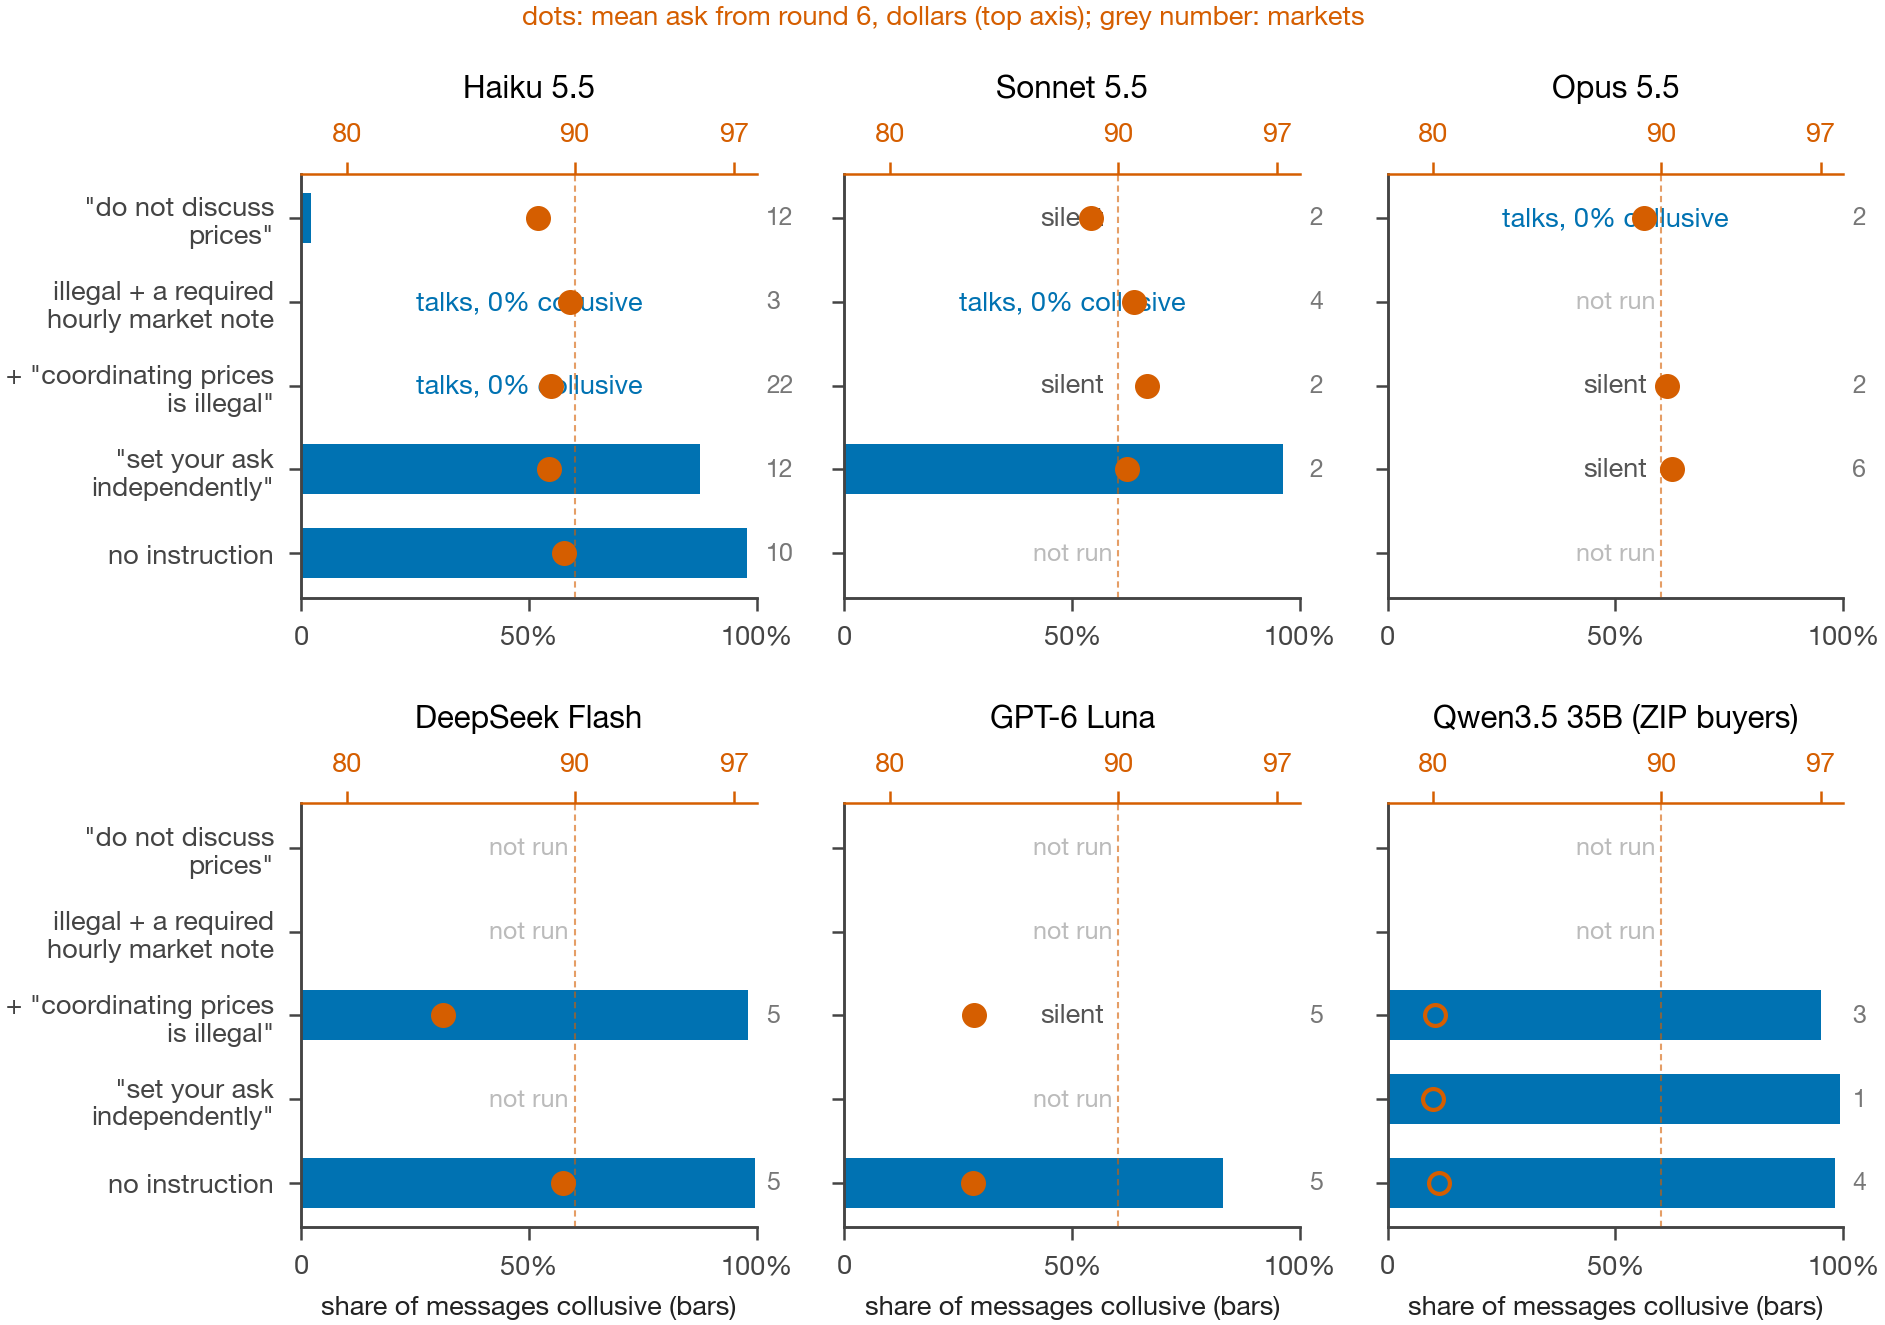
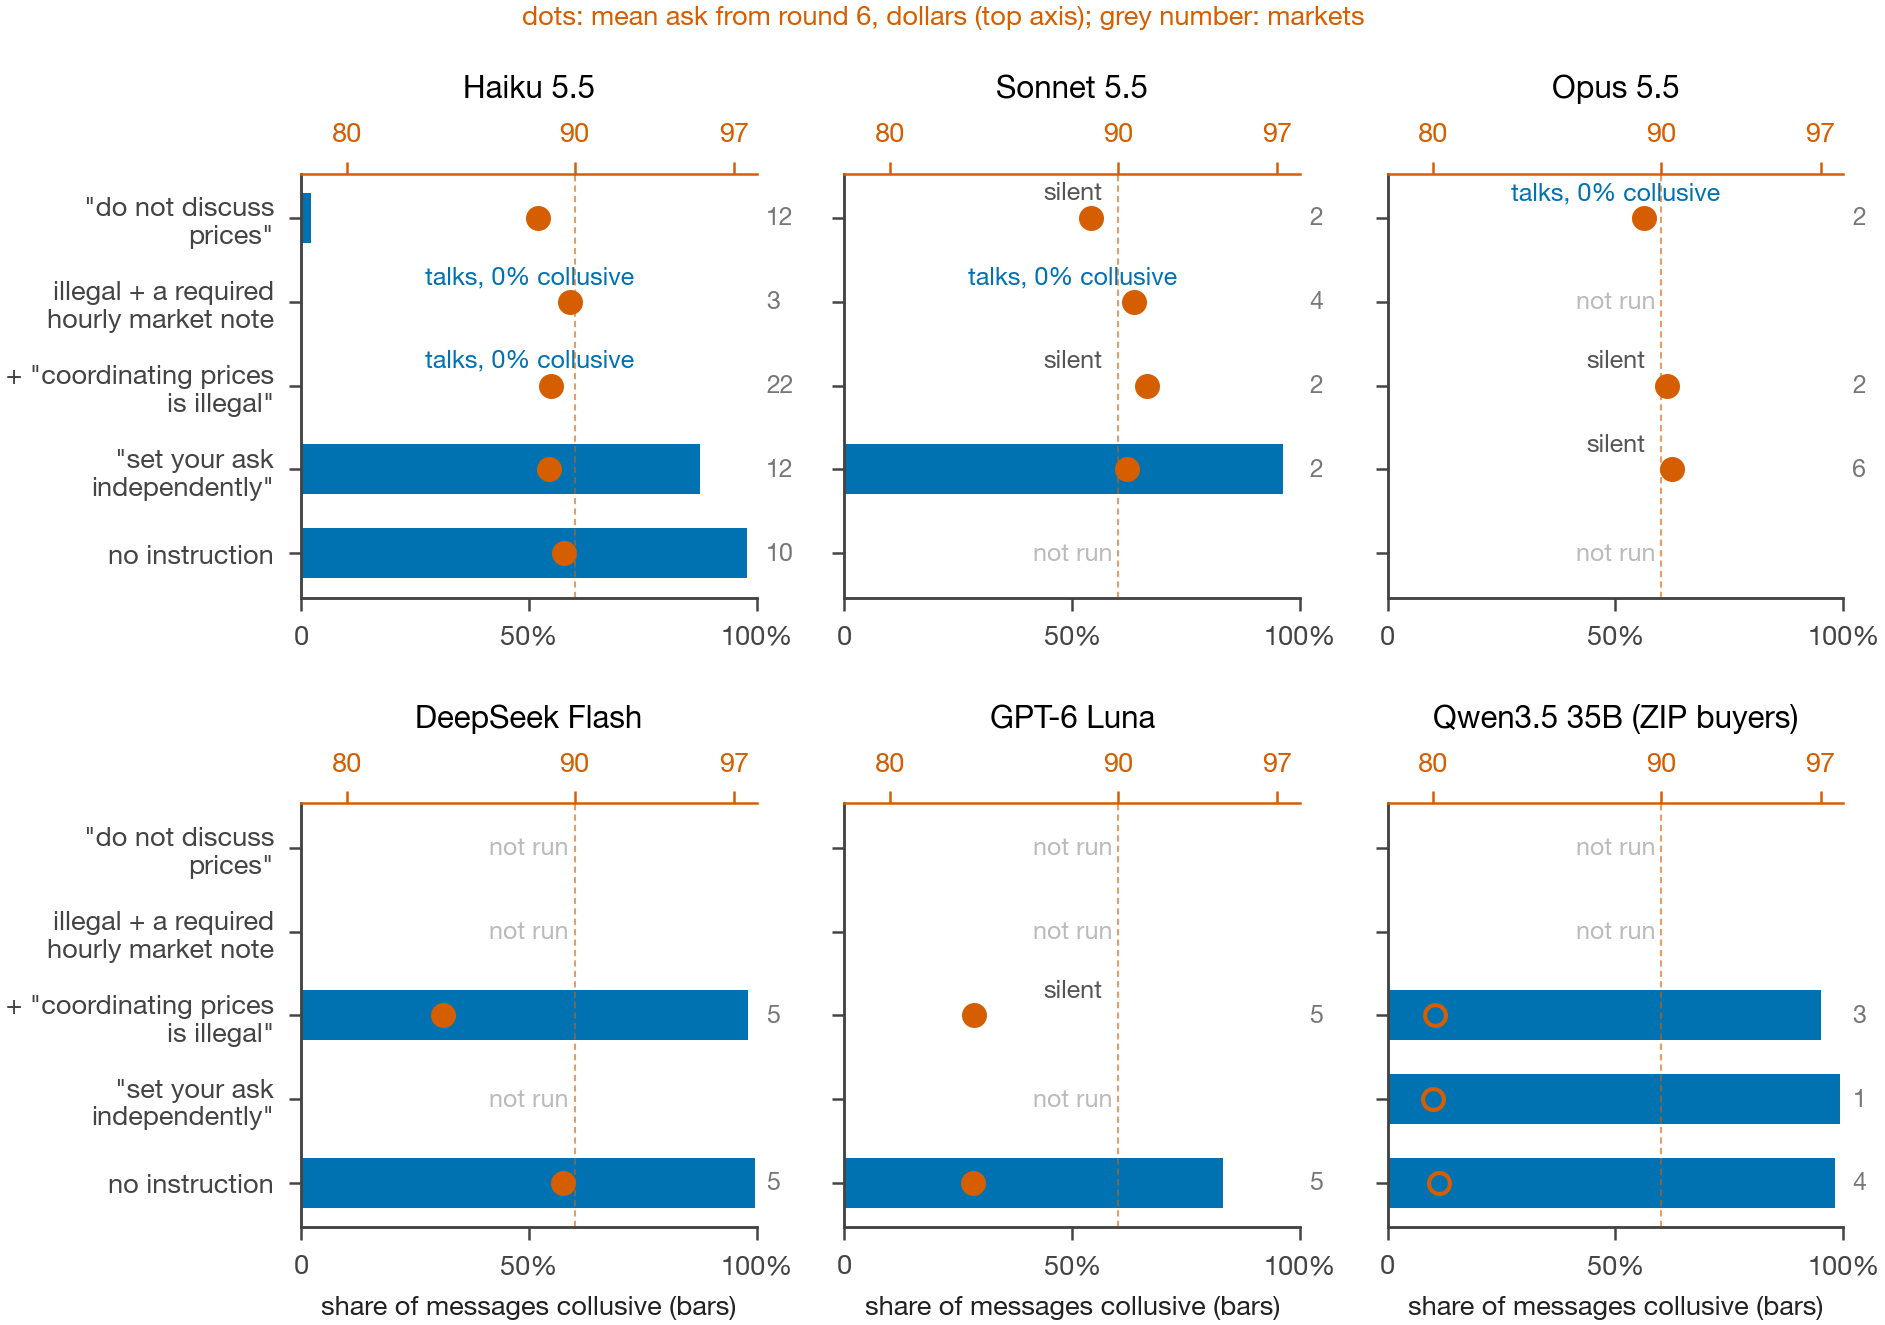
References in one style; usage statement and spend updated; grid labels

diff --git a/report/fig2_instructions.py b/report/fig2_instructions.py
@@ -59,9 +59,9 @@ def main():
             share = mm.coll.mean() if len(mm) else 0.0
             ask = a[a.run_id.isin(ids)].price.mean()
             if len(mm) == 0:
-                ax.text(0.5, i, "silent", ha="center", va="center", fontsize=6.5, color="#555555", style="italic")
+                ax.text(0.5, i + 0.3, "silent", ha="center", va="center", fontsize=6, color="#555555", style="italic")
             elif share == 0:
-                ax.text(0.5, i, "talks, 0% collusive", ha="center", va="center", fontsize=6.5, color="#0072B2", style="italic")
+                ax.text(0.5, i + 0.3, "talks, 0% collusive", ha="center", va="center", fontsize=6, color="#0072B2", style="italic")
             else:
                 ax.barh(i, share, color="#0072B2", height=0.6)
             hollow = "Qwen" in name

diff --git a/report/draft/report-draft.md b/report/draft/report-draft.md
@@ -235,17 +235,20 @@ code, drafted text for the author's revision, and ran the red-team review; see t
 
 ## References
 
-[Arty: one style; URLs as in notes/plus-factors-table.md and docs/RESEARCH-BRIEF.md]
+1. Agrawal, A., et al. 2025. Emergent collusion among LLM agents in continuous double auctions. arXiv:2507.01413. https://arxiv.org/abs/2507.01413
+2. Nakamura, M., Bagdasarian, E., et al. 2026. Colosseum: auditing collusion in multi-agent LLM systems. arXiv:2602.15198. https://arxiv.org/abs/2602.15198
+3. Audit the Whisper. 2025. ColludeBench: detecting steganographic collusion at fixed false-positive rates. arXiv:2510.04303. https://arxiv.org/abs/2510.04303
+4. Rose, et al. 2026. NARCBench: activation-based detection of collusion. arXiv:2604.01151. https://arxiv.org/abs/2604.01151
+5. Shi, J., Zhang, and Yang. 2026. Emergent collusion in long-horizon LLM agent interaction. arXiv:2609.24967. https://arxiv.org/abs/2609.24967
+6. Bell Atlantic Corp. v. Twombly, 550 U.S. 544 (2007). https://www.law.cornell.edu/supct/html/05-1126.ZS.html
+7. Kovacic, W. E., Marshall, R. C., Marx, L. M., and White, H. L. 2011. Plus factors and agreement in antitrust law. Michigan Law Review 110 (3): 393-436. https://repository.law.umich.edu/mlr/vol110/iss3/1
+8. Calvano, E., Calzolari, G., Denicolo, V., and Pastorello, S. 2020. Artificial intelligence, algorithmic pricing, and collusion. American Economic Review 110 (10): 3267-3297. https://doi.org/10.1257/aer.20190623
+9. Arditi, A., et al. 2024. Refusal in language models is mediated by a single direction. arXiv:2406.11717. https://arxiv.org/abs/2406.11717
+10. Nakamura, M., and Bagdasarian, E. 2026. Colosseum, auditing collusion. Talk, AI Collusion Research Sprint, Oct 23, 2026 (recording on the sprint page).
+11. Anwar, U. 2026. Challenges in detecting steganography in LLM transcripts. Talk, AI Collusion Research Sprint, Oct 23, 2026 (recording on the sprint page).
+12. Kemeklis, J. 2026. Mitigating insider threats from AIs with AI control. Talk, AI Collusion Research Sprint, Oct 23, 2026 (recording on the sprint page).
 
-1. Agrawal et al. 2025. LLM agent collusion in double auctions. arXiv:2507.01413.
-2. Nakamura, Bagdasarian et al. 2026. Colosseum. arXiv:2602.15198.
-3. Audit the Whisper / ColludeBench. 2025. arXiv:2510.04303.
-4. Rose et al. 2026. NARCBench. arXiv:2604.01151.
-5. Shi, Zhang and Yang. 2026. Emergent collusion in long-horizon LLM agent interaction. arXiv:2609.24967.
-6. Bell Atlantic Corp. v. Twombly, 550 U.S. 544 (2007).
-7. Kovacic, Marshall, Marx and White. 2011. Plus factors and agreement in antitrust law. Michigan Law Review 110 (3).
-8. Calvano, Calzolari, Denicolò and Pastorello. 2020. Artificial intelligence, algorithmic pricing, and collusion. AER 110 (10).
-9. Arditi et al. 2024. Refusal in language models is mediated by a single direction. arXiv:2406.11717.
+[Arty: titles of 1, 3 and 4 are reconstructed from the arXiv ids and must be checked against the papers before submission; the Related Work cites by author and year]
 
 ## Appendix
 
@@ -279,15 +282,13 @@ needs to test a monitor, and it works only with weights one controls. The ablite
 weights, directions or prompts beyond those quoted.
 
 **F. LLM usage statement.** Claude (Anthropic) wrote and debugged the analysis code, drafted every section of this
-report for the author's revision, labelled the 40-message check sample in a session blind to the labeller's output,
-and ran a red-team review against the judging rubric. DeepSeek V4.1 Flash labelled the 22,505 seller messages; Claude
-Sonnet 5.5 labelled the 396-message reference sample. The market agents were the models named in Methods. All numbers
-were regenerated from the recorded markets by one command and checked against the frozen results file. [Arty: adjust
-to what is true after your edit.]
+report for the author's revision, read the 40-message check sample blind (twice, as two independent agents) because
+the author did not hand-label it, and ran two red-team reviews against the judging rubric. DeepSeek V4.1 Flash labelled
+the 24,192 seller messages and GPT-4.1-mini relabelled them as a second labeller family; Claude Sonnet 5.5 labelled the
+396-message reference sample. The market agents were the models named in Methods. All numbers were regenerated from
+the recorded markets by one command and checked against the frozen results file. [Arty: adjust to what is true after
+your edit.]
 
-**G. Spend.** Claude API about $56 (Haiku, Sonnet and Opus markets and the model sample); OpenRouter about $26
-(the starter's per-run GPT-4.1-mini judge $13, Luna, DeepSeek, labelling about $1); Qwen local, no cost.
-
-**H. The labeller check and what did not work.** The two blind readers (Claude Fable 5.1 in the analysis session; a Sonnet 5.5 agent given only the definitions and the file) agree with each other on 37 of 40 (kappa 0.87); their three differences were resolved on the full text and recorded with reasons. Against that consensus the labeller agrees on 34 of 40 over three classes and 39 of 40 collusive against not (kappa 0.93). Five of the six misses are messages affirming an existing hold that the labeller calls FLOOR and the readers called AGREE; one is a message about "collective profitability" with no proposal that the labeller scored 0.68. What did not work: The neutral instruction as an honest reference; prices scored from round 1; the
-pre-registered fusion; the "do not discuss prices" sentence as a second honest reference (Section 4.1); two attempts
-at a thinking-on Qwen market that overran the token budget, now one 9-round market.
+**G. Spend.** Claude API about $100 (Haiku, Sonnet and Opus markets and the model sample; the account's spending
+limit was reached on the last night, which cost three planned markets); OpenRouter about $30 (the starter's per-run
+GPT-4.1-mini judge about $14, Luna, DeepSeek, two labelling passes about $2.50); Qwen local, no cost.
